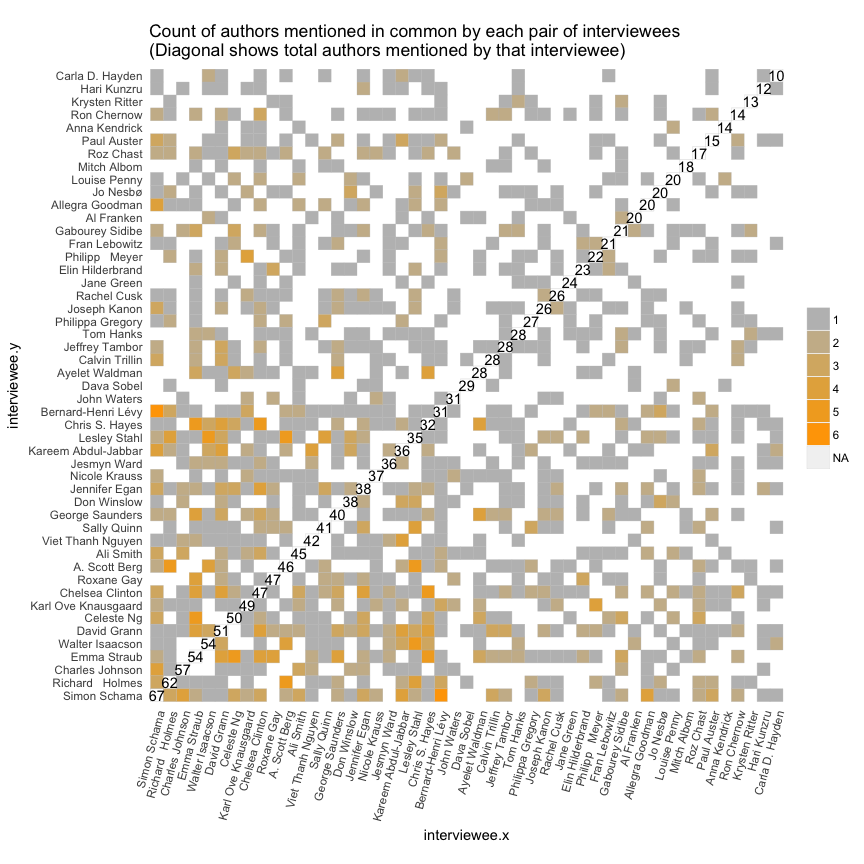
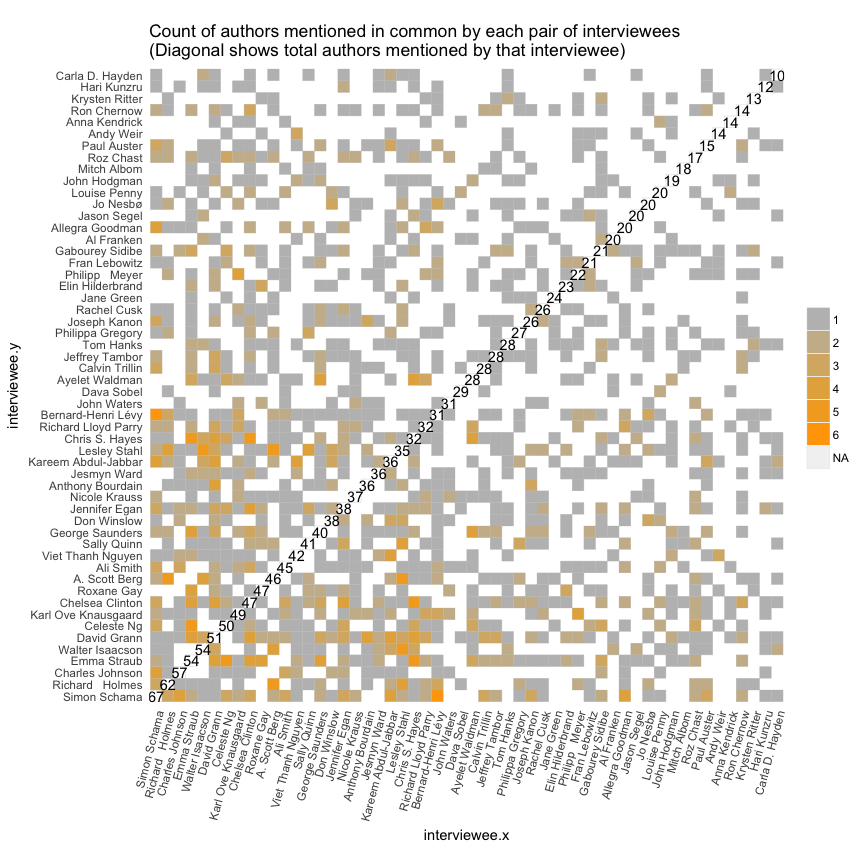
update data

diff --git a/btb.md b/btb.md
@@ -1,31 +1,35 @@
+    ## Warning: package 'purrr' was built under R version 3.4.2
+
 New York Times "By The Book" Interviews
 ---------------------------------------
 
-Interview dates: **December 1, 2016 - November 9, 2017**
+Interview dates: **December 1, 2016 - December 14, 2017**
 
-Total interviews: **49**
+Total interviews: **54**
 
-Total unique authors mentioned: **1197**
+Total unique authors mentioned: **1267**
 
 The New York Times Book Review's "By the Book" feature is a weekly interview exploring reading habits past, present, and planned. The interviews yield author recommendations - an average of **32** authors mentioned by name in each interview. The dataset analyzed below is a result of code that looks at the text of each interview, identifies strings of text that look like author names, and verifies them by looking for corresponding names in the Goodreads author database. The gender and birthdate information comes from the data in the Goodreads database, with missing data filled in from the authors' Wikipedia pages.
 
 ### Gender
 
-Male interviewees are more likely to mention male authors.
+There were a total of **24** female interviewees and **30** male interviewees.
+
+Male interviewees are more likely to mention male authors. Female interviewees mention men and women at about the same rate.
 
 ![](btb_files/figure-markdown_github/unnamed-chunk-2-1.png)
 
-But there is plenty of variation among interviewees in the total number of authors mentioned & in the gender split.
+But there is wide variation among interviewees in the total number of authors mentioned & in the gender split.
 
 ![](btb_files/figure-markdown_github/unnamed-chunk-3-1.png)
 
-Older interviewees are both more likely to be male (**71%** of male interviewees were born before 1960, vs **47%** of female interviewees) and more likely to have recommended a lower percentage of female authors.
+Older interviewees are both more likely to be male (**64%** of male interviewees were born before 1960, vs **47%** of female interviewees) and more likely to have recommended a lower percentage of female authors.
 
 ![](btb_files/figure-markdown_github/unnamed-chunk-4-1.png)
 
 ### Frequently mentioned authors
 
-This data has a long tail - there are **1197** unique authors mentioned across the **49** interviews, and **986** of them are only mentioned once. The most frequently mentioned authors are mentioned by a fifth of all interviewees. The chart below shows the most frequently mentioned authors, the number of times they were mentioned, and the dates they were mentioned.
+This data has a long tail - there are **1267** unique authors mentioned across the **54** interviews, and **1032** of them are only mentioned once. The most frequently mentioned authors are mentioned by a fifth of all interviewees. The chart below shows the most frequently mentioned authors, the number of times they were mentioned, and the dates they were mentioned.
 
 ![](btb_files/figure-markdown_github/unnamed-chunk-5-1.png)
 
